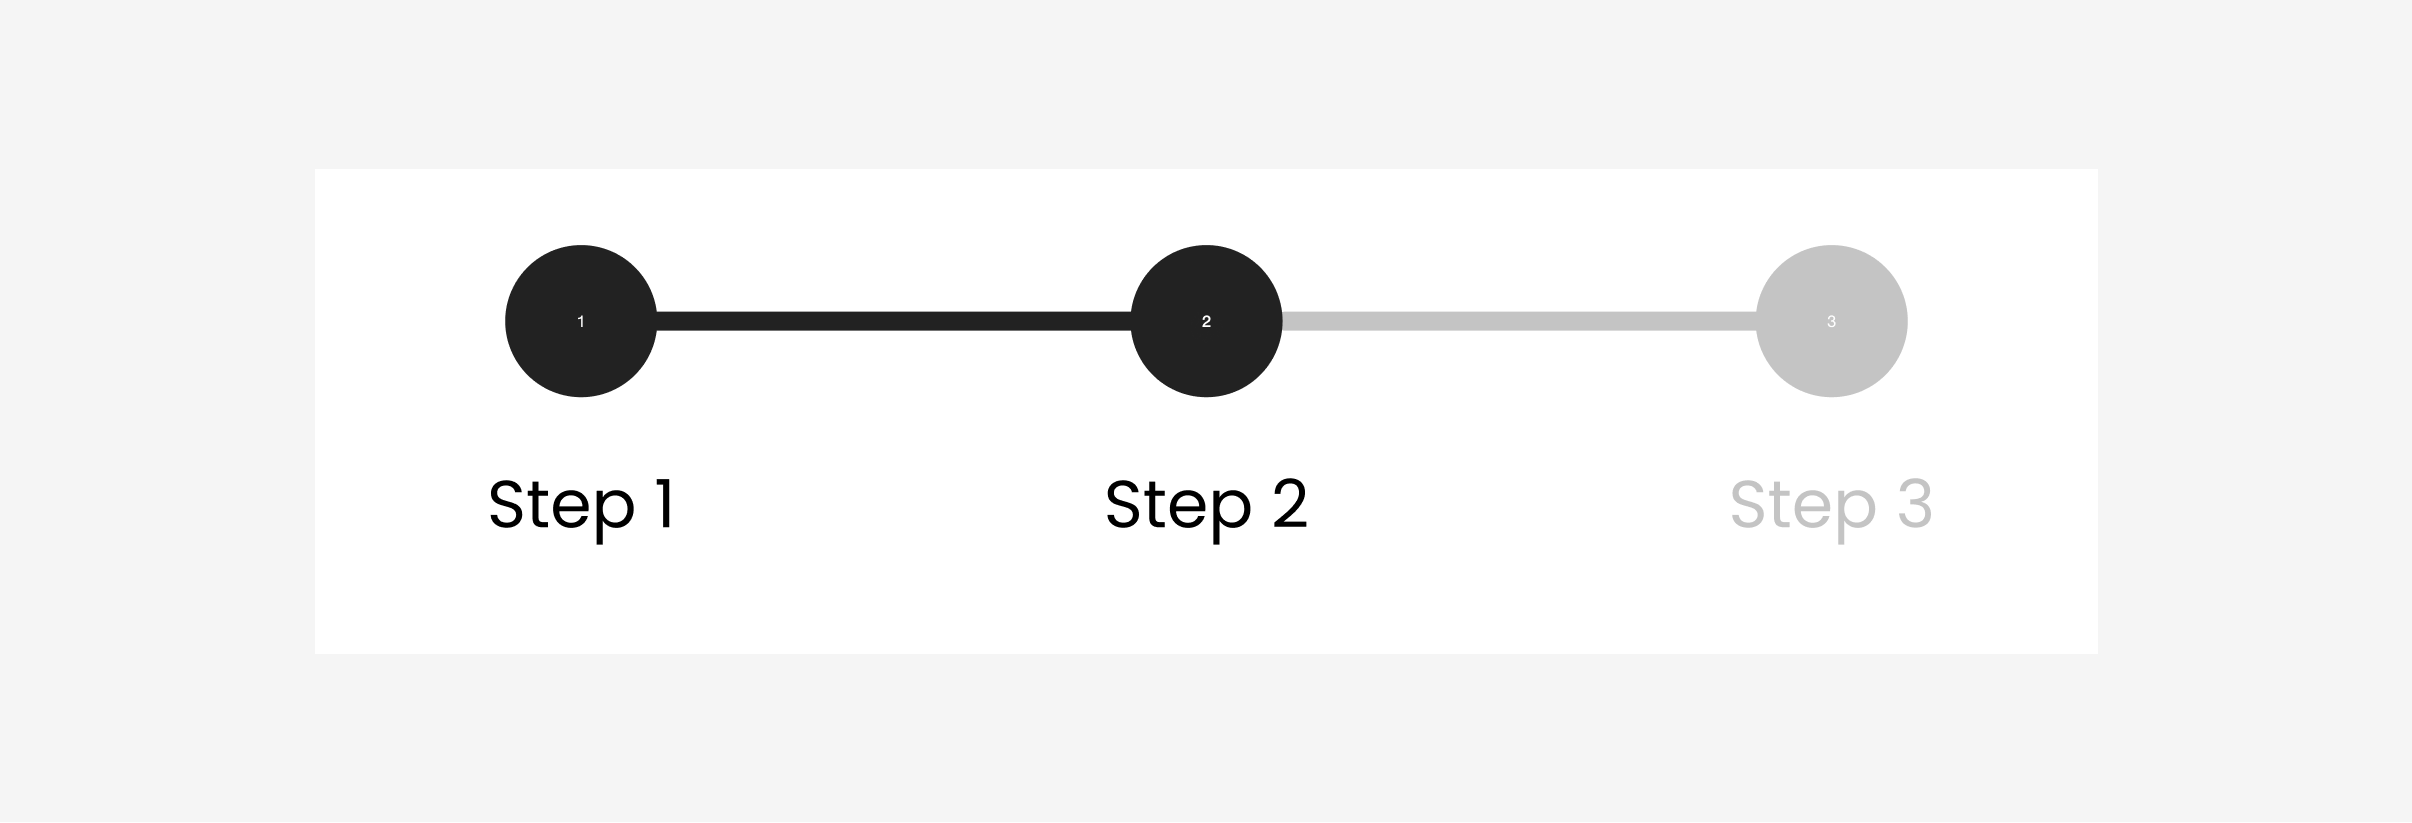
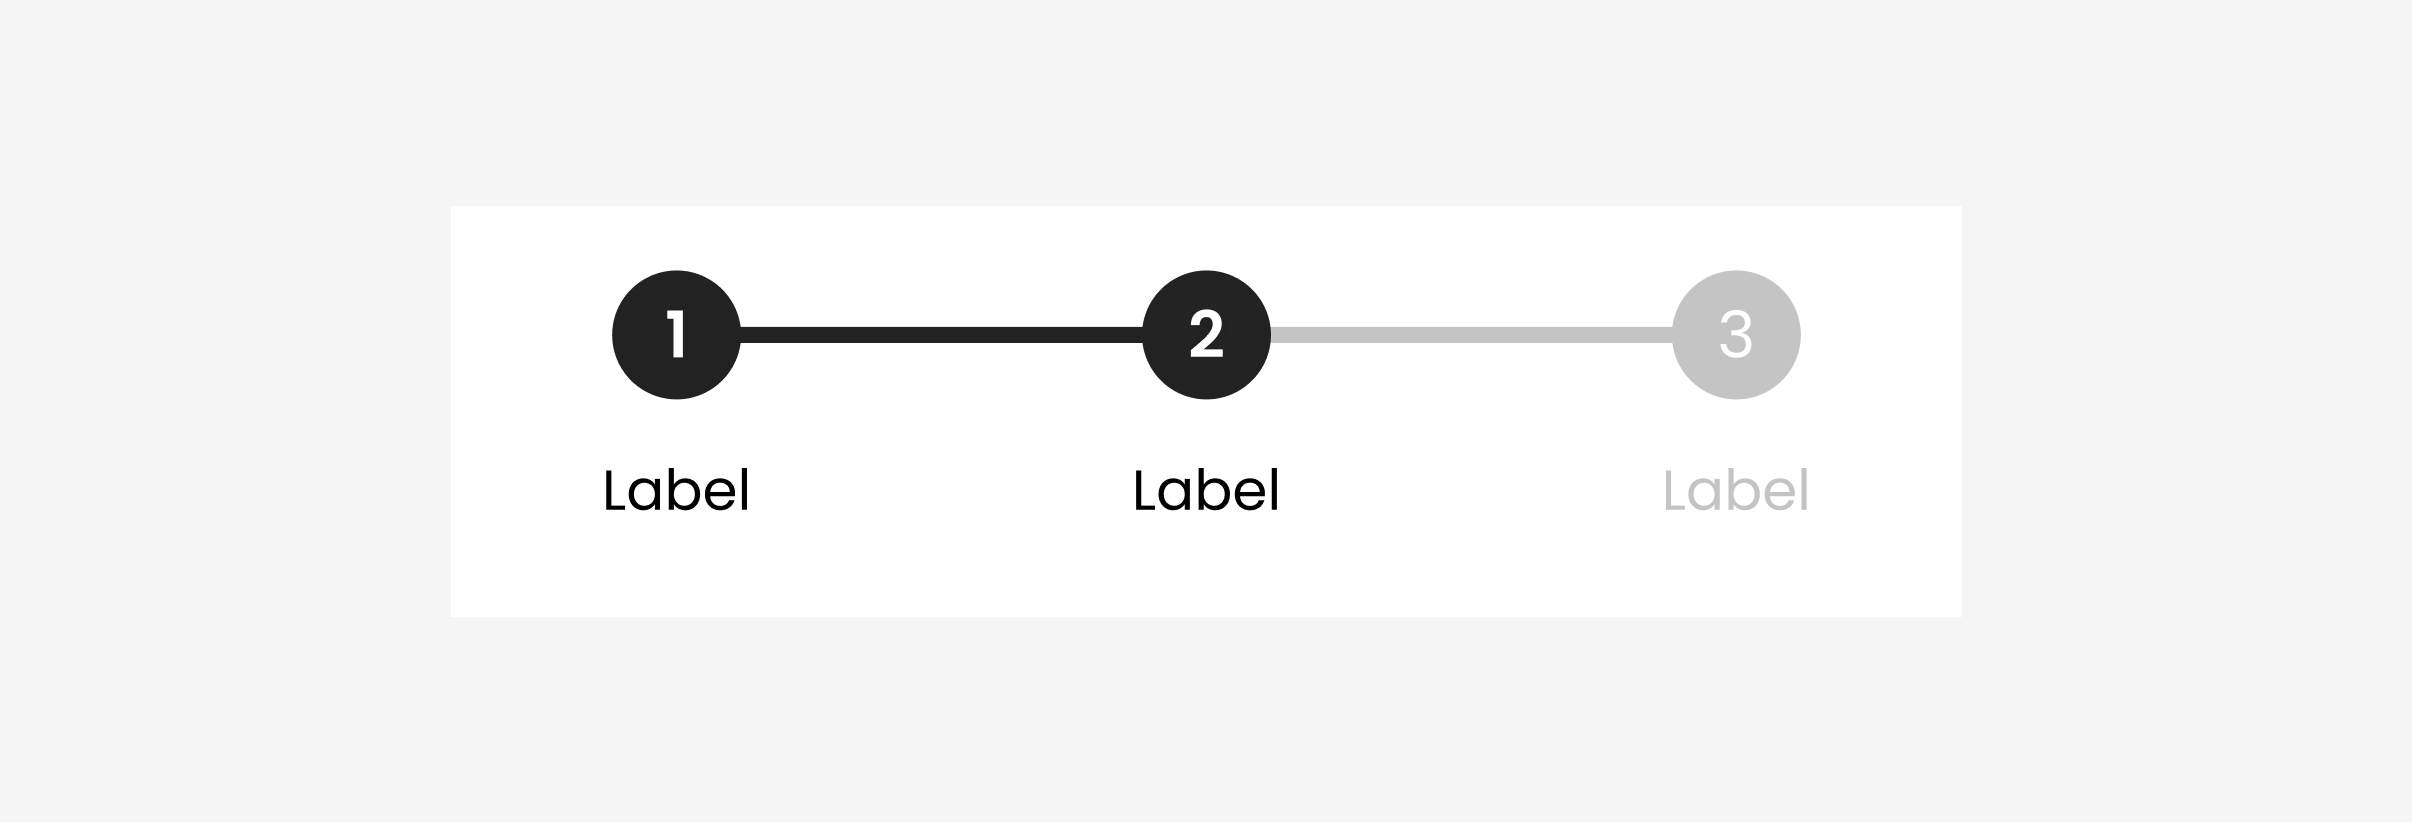
docs(steppers): image improvements, update runable code :smiley:

diff --git a/docs/docs/core-components/steppers.md b/docs/docs/core-components/steppers.md
@@ -5,64 +5,73 @@
 ## Example
 
 ```dart
-import 'package:flutter/material.dart'
-    show BuildContext, Key, State, StatefulWidget, Text, Widget;
-import 'package:travel_wallet_ui/travel_wallet_ui.dart';
+import 'package:flutter/material.dart' hide Step, Stepper, StepperType;
+import 'package:travel_wallet_ui/travel_wallet_ui.dart'
+    show Step, Stepper, StepperType;
 
-class StepperWidgets extends StatefulWidget {
-  const StepperWidgets({Key? key}) : super(key: key);
+void main() => runApp(const MyApp());
+
+class MyApp extends StatefulWidget {
+  const MyApp({Key? key}) : super(key: key);
 
   @override
-  State<StepperWidgets> createState() => _StepperWidgets();
+  State<MyApp> createState() => _MyApp();
 }
 
-class _StepperWidgets extends State<StepperWidgets> {
+class _MyApp extends State<MyApp> {
   int _index = 0;
+  static const String _title = 'Steppers Code Example';
 
   @override
   Widget build(BuildContext context) {
-    return Stepper(
-      type: StepperType.horizontal,
-      currentStep: _index,
-      onStepCancel: () {
-        if (_index > 0) {
-          setState(() {
-            _index -= 1;
-          });
-        }
-      },
-      onStepContinue: () {
-        if (_index >= 0 && _index < 2) {
-          setState(() {
-            _index += 1;
-          });
-        }
-      },
-      onStepTapped: (int index) {
-        setState(() {
-          _index = index;
-        });
-      },
-      steps: <Step>[
-        Step(
-          isActive: _index >= 0,
-          title: const Text(''),
-          content: const Text('Content for Step 1'),
-          label: const Text("Step 1"),
-        ),
-        Step(
-          isActive: _index >= 1,
-          title: const Text(''),
-          content: const Text('Content for Step 2'),
-          label: const Text("Step 2"),
-        ),
-        Step(
-          isActive: _index >= 2,
-          title: const Text(''),
-          content: const Text('Content for Step 3'),
-          label: const Text("Step 3"),
-        ),
-      ],
+    return MaterialApp(
+      home: Scaffold(
+          appBar: AppBar(title: const Text(_title)),
+          body: Center(
+            child: Stepper(
+              type: StepperType.horizontal,
+              currentStep: _index,
+              onStepCancel: () {
+                if (_index > 0) {
+                  setState(() {
+                    _index -= 1;
+                  });
+                }
+              },
+              onStepContinue: () {
+                if (_index >= 0 && _index < 2) {
+                  setState(() {
+                    _index += 1;
+                  });
+                }
+              },
+              onStepTapped: (int index) {
+                setState(() {
+                  _index = index;
+                });
+              },
+              steps: [
+                Step(
+                  isActive: _index >= 0,
+                  title: const Text(''),
+                  content: const Text('Content for Step 1'),
+                  label: const Text("Step 1"),
+                ),
+                Step(
+                  isActive: _index >= 1,
+                  title: const Text(''),
+                  content: const Text('Content for Step 2'),
+                  label: const Text("Step 2"),
+                ),
+                Step(
+                  isActive: _index >= 2,
+                  title: const Text(''),
+                  content: const Text('Content for Step 3'),
+                  label: const Text("Step 3"),
+                ),
+              ],
+            ),
+          )),
     );
   }
 }
